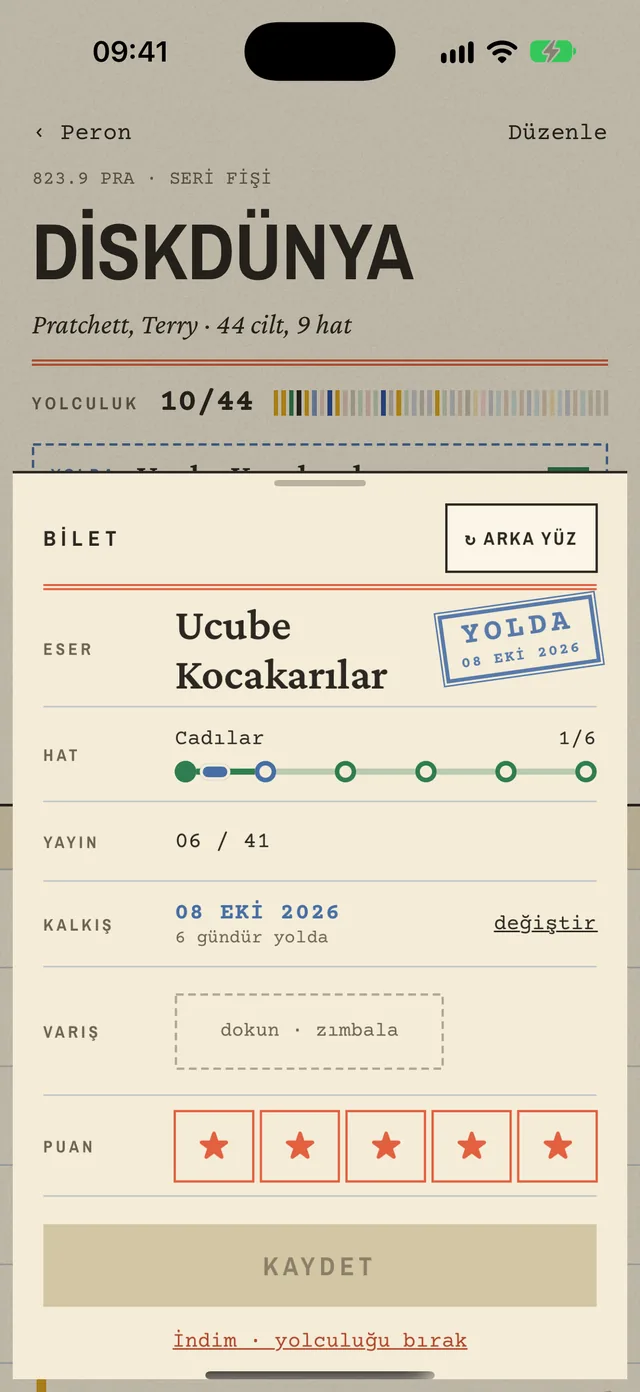
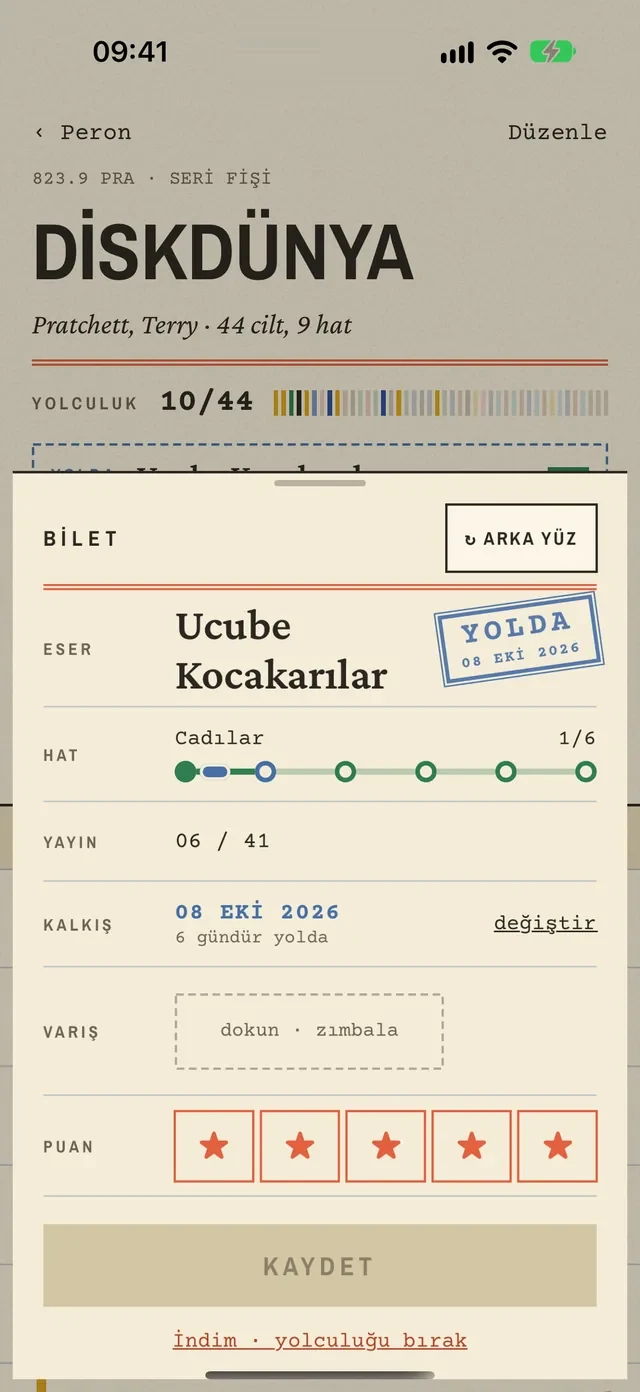
Dynamic Island'ı düzelt, şifre sayfasını sıkılaştır
- kart-light.webp içine gömülü kalmış island silindi; CSS island'ıyla
  üst üste binip altından/üstünden taşıyordu.
- CSS island gerçek iPhone Pro ölçülerine getirildi (126×37 pt, üstten
  11 pt); önceki hali fazla basıktı.
- Şifre sayfası: Supabase betiğine SRI (integrity) eklendi, CDN'deki
  dosya değiştirilirse tarayıcı çalıştırmaz. Hash'e sabitlenebilmesi
  için jsDelivr'ın anlık ürettiği .min.js yerine paketteki supabase.js
  kullanılıyor.
- Şifre sayfası: hash tabanlı Content-Security-Policy ve başka sitenin
  çerçevesinde açılmaya karşı koruma eklendi.
- Ana sayfa ve onay sayfası: e-posta bağlantısındaki anahtarlar
  dışarıya Referer ile gitmesin diye no-referrer eklendi.
- .DS_Store depodan çıkarıldı, .gitignore'a eklendi.

Claude-Session: https://claude.ai/code/session_01MvW5KorgGq8sJQ9VbiVVrG

Changed region(s): [[0.375, 0.0, 0.625, 0.0618]]

diff --git a/sifre/index.html b/sifre/index.html
@@ -2,6 +2,9 @@
 <html lang="tr">
 <head>
 <meta charset="utf-8">
+<!-- Güvenlik politikası: sayfadaki iki <script> bloğundan biri değişirse aşağıdaki sha256 değerleri de yenilenmeli,
+     yoksa tarayıcı o betiği çalıştırmaz. -->
+<meta http-equiv="Content-Security-Policy" content="default-src 'none'; script-src https://cdn.jsdelivr.net 'sha256-tNzsh1gAq3hIzX/r085/QKk/WkuL6Lh2v1PKwvlgOQw=' 'sha256-BSIZzfK1KFyoK4ai1K5b3Xejw/eSq0Di7EtF8+uXM6U='; style-src 'unsafe-inline' https://fonts.googleapis.com; font-src https://fonts.gstatic.com; img-src 'self'; connect-src https://arxwwekjxgrgyruopvzp.supabase.co; base-uri 'none'; form-action 'none'; object-src 'none'">
 <meta name="viewport" content="width=device-width, initial-scale=1, viewport-fit=cover">
 <meta name="robots" content="noindex">
 <meta name="referrer" content="no-referrer">
@@ -13,6 +16,8 @@
 <link rel="preconnect" href="https://fonts.gstatic.com" crossorigin>
 <link rel="stylesheet" href="https://fonts.googleapis.com/css2?family=Archivo+Narrow:wght@700&family=Courier+Prime:wght@400;700&family=Crimson+Pro:ital,wght@0,600;1,400&display=swap">
 <script>
+  // Başka bir sitenin çerçevesi içinde açılırsa sayfayı gösterme (tıklama tuzağına karşı).
+  if (window.top !== window.self) document.documentElement.style.display = 'none';
   // E-postadaki bağlantının taşıdığı bilgiyi al ve adres çubuğundan hemen sil.
   (function () {
     var p = new URLSearchParams(location.search);
@@ -114,7 +119,8 @@
     <div class="adim">Bu adresle bir Peron üyeliği varsa yeni şifre bağlantısı birkaç dakika içinde gelir. Gelen kutunda yoksa istenmeyen klasörüne de bak.</div>
   </div>
 
-<script src="https://cdn.jsdelivr.net/npm/@supabase/supabase-js@2.45.4/dist/umd/supabase.min.js"></script>
+<script src="https://cdn.jsdelivr.net/npm/@supabase/supabase-js@2.45.4/dist/umd/supabase.js"
+        integrity="sha384-0w2KAL2YHP6wKOkUDzkCDGgVvfmHnj02DHeQ6XcHOgTfFsGyonKOpShMH1x6nk9o" crossorigin="anonymous"></script>
 <script>
   // Uygulamayla aynı Supabase projesi; yayınlanabilir anahtar herkese açık olacak şekilde tasarlanmıştır (erişim RLS ile sınırlı).
   var sb = supabase.createClient('https://arxwwekjxgrgyruopvzp.supabase.co', 'sb_publishable_sPMEqz96nenj0LYJyGUB8g_4YeLFx-Z',

diff --git a/index.html b/index.html
@@ -2,6 +2,7 @@
 <html lang="tr">
 <head>
 <meta charset="utf-8">
+<meta name="referrer" content="no-referrer">
 <script>
   // Üyelik e-postasındaki bağlantı ana sayfaya düşerse doğru sayfaya aktar.
   if (/type=recovery/.test(location.hash + location.search))
@@ -112,7 +113,8 @@
   .tel > i:nth-child(3) { right: -3px; top: 24%; height: 10%; border-radius: 0 2px 2px 0; }
   .ekran { position: relative; aspect-ratio: 640 / 1392; border-radius: 12% / 5.6%; overflow: hidden; background: #000; }
   .ekran img { width: 100%; height: 100%; object-fit: cover; }
-  .ekran::after { content: ""; position: absolute; top: 2.1%; left: 50%; width: 31%; height: 3%; transform: translateX(-50%); background: #000; border-radius: 99px; }
+  /* Dynamic Island: iPhone Pro ölçüleri (393×852 pt ekranda 126×37 pt, üstten 11 pt) */
+  .ekran::after { content: ""; position: absolute; z-index: 1; top: 1.33%; left: 50%; width: 32%; aspect-ratio: 126 / 37; transform: translateX(-50%); background: #000; border-radius: 99px; pointer-events: none; }
 
   /* 02 Nasıl çalışır */
   #nasil h2 { padding: clamp(36px, 5vw, 56px) 0 clamp(32px, 4vw, 48px); }

diff --git a/onay/index.html b/onay/index.html
@@ -4,6 +4,7 @@
 <meta charset="utf-8">
 <meta name="viewport" content="width=device-width, initial-scale=1, viewport-fit=cover">
 <meta name="robots" content="noindex">
+<meta name="referrer" content="no-referrer">
 <title>Peron · Onay</title>
 <meta name="theme-color" content="#d8c69c" media="(prefers-color-scheme: light)">
 <meta name="theme-color" content="#1d1b17" media="(prefers-color-scheme: dark)">
